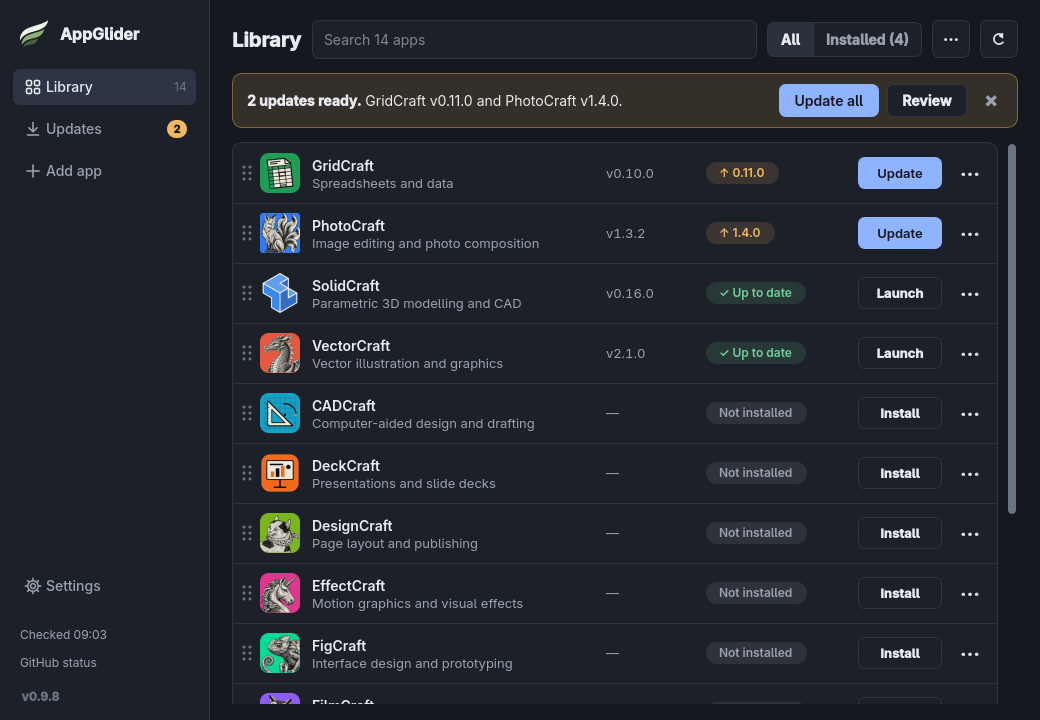
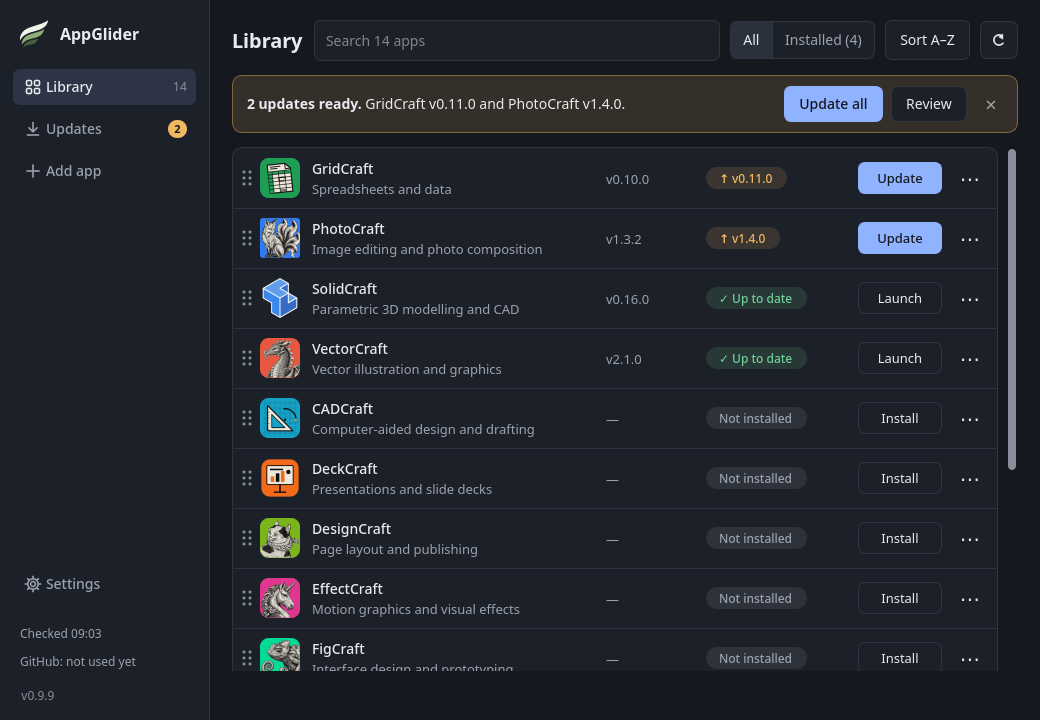
chore: release 0.9.9

diff --git a/site/index.html b/site/index.html
@@ -47,7 +47,7 @@
 <link rel="stylesheet" href="/styles.css">
 <script src="/site.js" defer></script>
 </head>
-<body data-version="0.9.8">
+<body data-version="0.9.9">
 <a class="skip" href="#main">Skip to content</a>
 
 <header class="nav">
